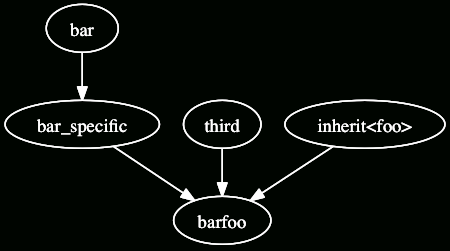
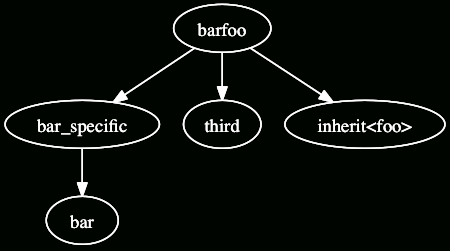
Revert edge direction for inheritance graph.

diff --git a/_posts/2013-04-02-visualization-of-inheritance-tree-for-c.md b/_posts/2013-04-02-visualization-of-inheritance-tree-for-c.md
@@ -110,7 +110,7 @@ def build():
     tu = index.parse(cpp_file_path)
     G = pygraphviz.AGraph(directed=True)
     for this, parent in ir.each_inheritance_relation(tu.cursor):
-        edge = (parent, this)
+        edge = (this, parent)
         G.add_edge(edge)
     return G
 
